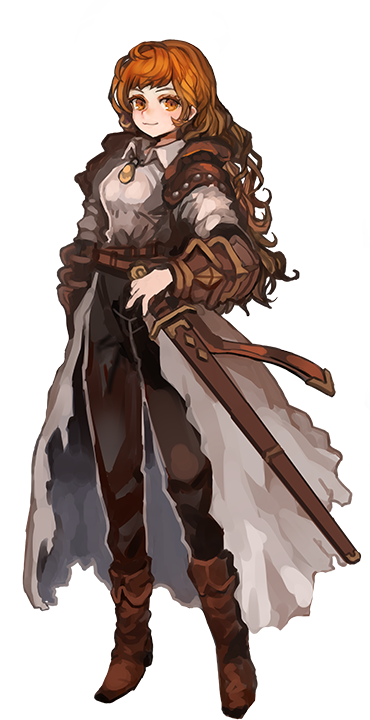
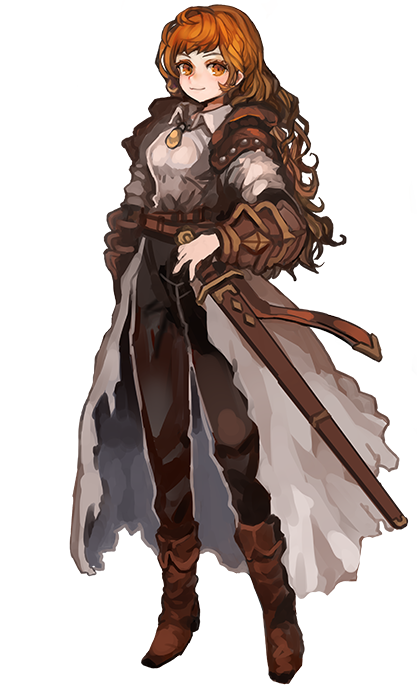
fix chara position

diff --git a/src/class/BattleResult.js b/src/class/BattleResult.js
@@ -59,7 +59,7 @@ export default class BattleResult extends Phaser.GameObjects.Container {
   getChara (chara, x, y) {
     const container = this.scene.add.container(x, y)
     container.source = chara
-    const sprite = this.scene.add.sprite(-110, 0, chara.key).setScale(0.25).setOrigin(0, 0)
+    const sprite = this.scene.add.sprite(-78, 0, chara.key).setScale(0.25).setOrigin(0.5, 0)
     sprite.setCrop(0, 0, sprite.width, 150)
     const name = this.scene.add.text(-53, 0, chara.name, { fill: config.COLORS.theme.toColorString, stroke: config.COLORS.dark.toColorString, strokeThickness: 2, fontSize: 17, fontStyle: 'bold', fontFamily: config.FONTS.UI })
     const lv = this.scene.add.text(130, 15, `Lv ${chara.lv}`, { fill: config.COLORS.theme.toColorString, stroke: config.COLORS.dark.toColorString, strokeThickness: 2, fontSize: 15, fontStyle: 'bold', fontFamily: config.FONTS.UI, align: 'right' }).setOrigin(1, 0.5)

diff --git a/src/class/PlayerBattler.js b/src/class/PlayerBattler.js
@@ -20,8 +20,8 @@ export default class PlayerBattler extends Battler {
     this.bg2 = this.scene.add.polygon(-9, -20, [[26, 0], [282, 130], [0, 130]], 0x111111)
     this.add(this.bg2)
     // image
-    this.sprite = this.scene.add.sprite(-180, -60, this.key)
-    this.sprite.setScale(0.7).setOrigin(0, 0)
+    this.sprite = this.scene.add.sprite(-90, -60, this.key)
+    this.sprite.setScale(0.7).setOrigin(0.5, 0)
     this.add(this.sprite)
     this.sprite.setCrop(0, 0, this.sprite.width, 150)
     // name
